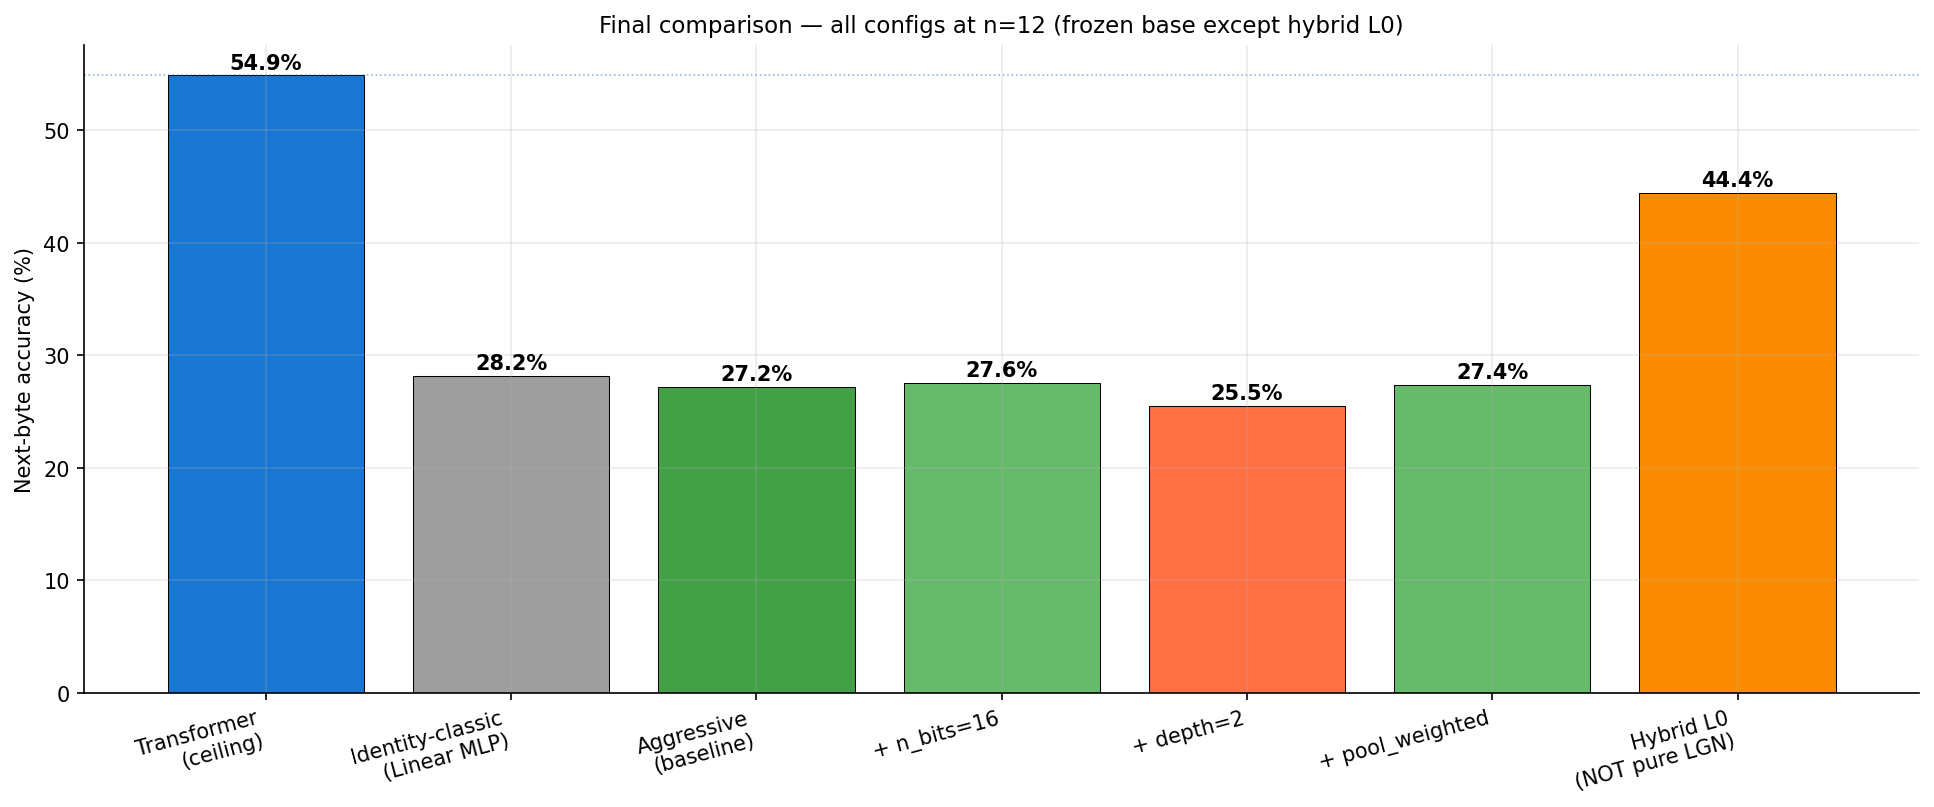
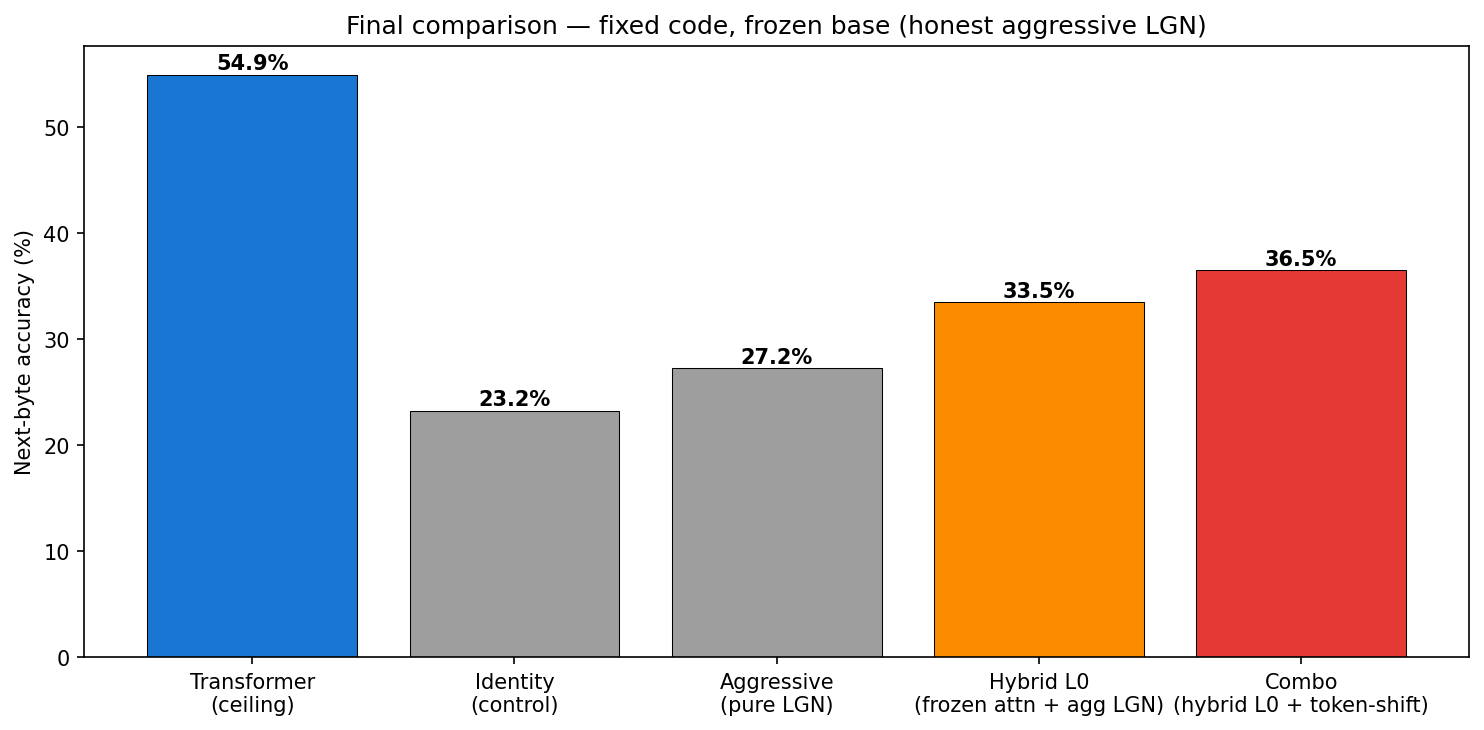
Regenerate README section 6 figure + numbers with fixed-code honest results
The old section-6 chart showed Hybrid L0 = 44.4%, but that was a classic-setup hybrid
(LGN wrapped in trained Linear layers + partially-trained attention from an old bug) —
identity-ablation later showed the Linear layers, not the gates, earned those points
(fake-LGN). Regenerated 18_final_comparison.png and the table/prose with the honest
fixed-code numbers: Hybrid L0 = 33.5%, combo = 36.5%.

diff --git a/README.md b/README.md
@@ -132,25 +132,25 @@ Visi pataisymai **per noise floor** (±0.5 ppt). Daugiau loginių vartų net pab
 
 ## 6. Hybrid L0 — architektūrinis apėjimas
 
-Paliekant **attention L0 sluoksnyje** (jis apdoroja raw embedding'ą, kur cross-token mixing kritinis), accuracy šokteli dramatiškai:
+Paliekant **attention L0 sluoksnyje** (jis apdoroja raw embedding'ą, kur cross-token mixing kritinis), accuracy pakyla aiškiai:
 
 ![final comparison](results/figs/report/18_final_comparison.png)
 
 | Modelis | accuracy |
 |---|---:|
 | Aggressive LGN (visi 12) | 27.2% |
-| **Hybrid L0 + aggressive LGN** | **44.4%** |
+| **Hybrid L0 + aggressive LGN** | **33.5%** |
+| **Combo (hybrid L0 + token-shift K=2)** | **36.5%** |
 | Transformer (ceiling) | 54.9% |
 
-**+17 punktų vien iš vieno architektūrinio sprendimo.** Tai parodo, kad gap iki transformer'io koncentruotas **L0** sluoksnyje, kur LGN fundamentaliai negali atlikti reikiamo darbo (pointwise vartai negali maišyti tokenų — tai attention darbas).
+**+6.2 pp vien iš vieno architektūrinio sprendimo** (hybrid L0), o pridėjus token-shift — **+9.2 pp** (combo). Tai parodo, kad gap iki transformer'io koncentruotas **L0** sluoksnyje, kur LGN fundamentaliai negali atlikti reikiamo darbo (pointwise vartai negali maišyti tokenų — tai attention darbas).
 
-Hybrid uždaro **daugiau nei pusę** likusio gap'o (27→44, kelias iki 55). Tai ne pure LGN — bet aiškiai rodo, kur LGN "lubos" ir kur architektūrinė nuolaida turi prasmę.
-
-> **Pastaba (atnaujinta):** šis 44.4% yra iš ANKSTYVOJO classic-setup matavimo. Su
-> **pataisytu kodu** (griežtas honest-protokolas, žr. §8–§13) tikslesni skaičiai:
-> hybrid L0 + aggressive = **33.5%**, o geriausias pure-LGN (combo: hybrid-L0 +
-> token_shift K=2) = **36.5%**. Bendras pasakojimas tas pats (cross-token L0 sprendimas
-> uždaro gap'ą), tik tikslūs procentai žemesni dėl švaresnio matavimo.
+> **Pastaba dėl skaičių:** ankstesnėje šio skyriaus versijoje buvo **44.4%** — bet tai buvo
+> iš classic-setup hibrido (LGN apsuptas mokomų **Linear** sluoksnių + dalinai treniruotas
+> attention dėl bug'o). Identity-ablation testas vėliau parodė, kad tuos „papildomus" punktus
+> uždirbo Linear sluoksniai, **ne logikos vartai** (fake-LGN efektas). Su pataisytu kodu —
+> tikrai aggressive LGN MLP + tikrai užšaldytas attention + sąžiningas matavimas — honest
+> skaičius yra **33.5%**. Grafikas ir lentelė atnaujinti į fixed-code reikšmes.
 
 ## 7. Literatūros įžvalgos (2025 darbai)
 